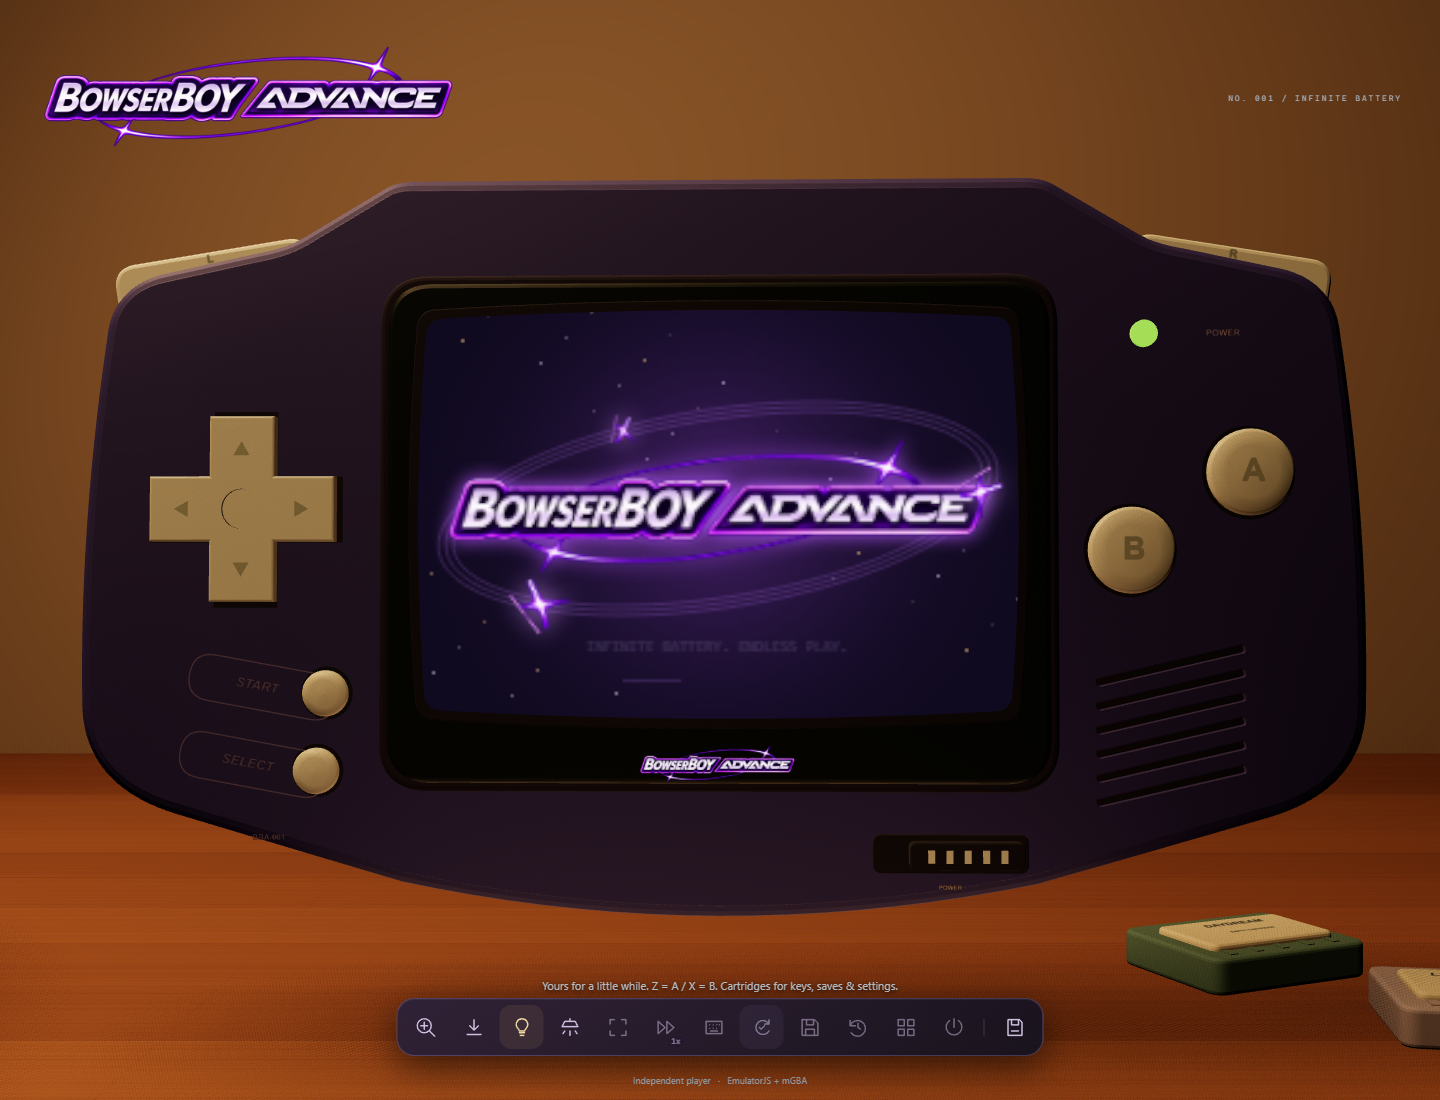
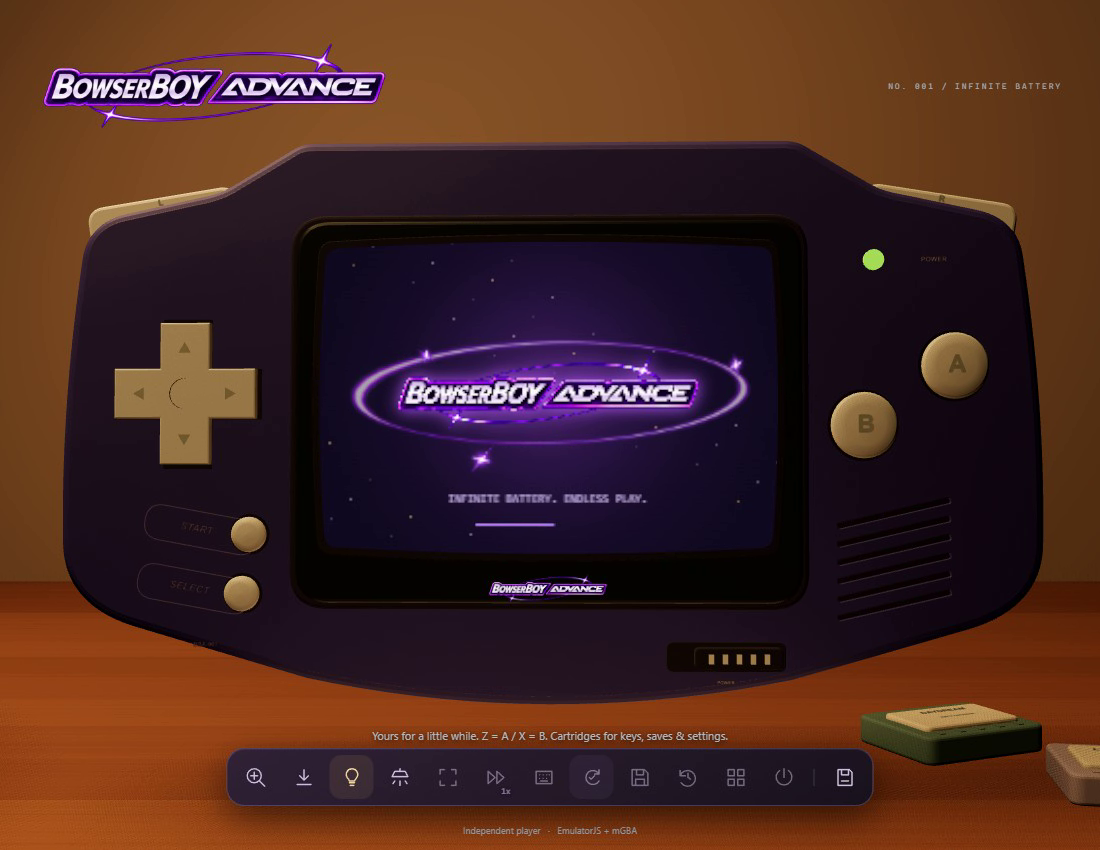
Document and capture the verified complete orbital startup
Record successful normal deployment and independent production checks, publish actual refreshed boot media, and reconcile sprite provenance, spacing and causal release history.

Copilot-Session: 8e7d69ac-78f7-4310-8b8d-14bf8681a509

diff --git a/docs/MEDIA.md b/docs/MEDIA.md
@@ -8,17 +8,17 @@ This is the user's explicit policy for this repository, not a portfolio-wide rul
 
 ## Sources and boundaries
 
-- `images/orbital-logo.gif` animates the supplied transparent purple logo and its
-  derived star sprite on a transparent background, without a purple rectangular
-  backdrop or background starfield. GIF supports binary transparency, so soft
+- `images/orbital-logo.gif` animates the supplied transparent purple logo and the
+  supplied sparkle, glow and orbit effects on a transparent background, without
+  a purple rectangular backdrop or background starfield. GIF supports binary transparency, so soft
   alpha edges are thresholded for encoding; the supplied source remains unchanged.
   Its elliptical star motion is an original README presentation, not a recording
   of the LCD boot. The separate power-on GIF retains the actual purple LCD scene.
 - The other GIFs are actual recordings of the deployed application, captured
   with Playwright/Edge at 1100 by 850 and encoded at 800 by 618, 10 fps.
   Pickup/inspection, power-on, physical insertion and lighting use actual UI
-  actions, not rendered mockups or artificial interpolation. The last half-second
-  of each trailing idle hold is trimmed; clip timings are not performance metrics.
+  actions, not rendered mockups or artificial interpolation. Trailing idle holds
+  are trimmed; clip timings are not performance metrics.
 - Insertion deliberately holds the native loader download until the cartridge
   seats, making the real download-phase motion visible. It is not a measurement
   of normal network loading time.
@@ -29,6 +29,41 @@ This is the user's explicit policy for this repository, not a portfolio-wide rul
   available in the [player guide](GUIDE.md).
 - Documentation images are not part of the static application's build allowlist.
 
+The power-on GIF and startup still were refreshed from deployed source
+`a0445eeda7836b24f2f1449427d2381bab7bad52`, after independently matching all
+28 public assets and checking the actual startup. Its final clip boundary was
+shortened after encoded review to exclude the following drawer action, without
+retiming motion. Other interaction GIFs retain their previously reviewed footage.
+
+## Complete effects, not logo fragments
+
+The earlier moving star was cropped from the logo, leaving neighboring orbit
+segments and hard-cut arms. Its replacement comes from the user's **Purple Neon
+Sparkle and Orbital Sprite Sheet**, supplied on 2026-11-04: 2172x724 RGBA,
[1 lines of base64/hex data omitted]
+
+| Output | Source rectangle, exclusive right/bottom | Transparent output |
+|---|---|---|
+| `assets/star.png` | `(690,100)-(875,302)` | 256x256 |
+| `assets/glow.png` | `(1640,138)-(1768,267)` | 160x160 |
+| `assets/orbit.png` | `(0,512)-(640,724)` | 660x240 |
+
+`scripts/extract-orbital-sprites.py` removes only near-invisible alpha<=1 noise,
+rejects crops touching visible content, preserves the remaining colors/alpha,
+and centers each complete effect with transparent padding. The supplied source
+and logo stay unchanged. Natural passing behind the wordmark is intentional
+occlusion, not a crop cutoff.
+
+The LCD orbit is inset far enough to contain every rotated sparkle throughout
+the reveal. Browser checks cover the full 3200ms animation at 100ms steps,
+transparent sprite margins and the unchanged static reduced-motion presentation.
+Every encoded README banner frame also clears an 8px outer canvas margin.
+The centered banner artwork is 620px wide inside a 960px outer orbit on the
+1000x340 canvas. The LCD uses 160px artwork inside a 226px ring. This leaves
+clear breathing room instead of stretching the wordmark against the orbit.
+Browser checks also retain centered placement and logo width below 75% of the
+ring throughout the startup reveal.
+
 ## Reproduce
 
 The existing Node dependencies provide Playwright. Install Edge, Python with
@@ -38,12 +73,13 @@ requirements for playing or building the website.
 From the repository root, provide your own scratch output directory:
 
 ```powershell
+python scripts\extract-orbital-sprites.py "C:\art\Purple Neon Sparkle and Orbital Sprite Sheet.png"
 node scripts\capture-readme.mjs C:\scratch\bba-readme
 python scripts\render-readme.py --capture C:\scratch\bba-readme\capture.json --ffmpeg C:\tools\ffmpeg.exe
 ```
 
-Use the actual FFmpeg executable path on your machine. Set `BBA_CAPTURE_URL` to
-record a different running build, or `BROWSER_CHANNEL` to select an installed
+Use the actual supplied sheet and FFmpeg executable paths on your machine.
+Set `BBA_CAPTURE_URL` to record a different running build, or `BROWSER_CHANNEL` to select an installed
 Playwright browser channel. The default capture URL is the public website.
 The capture writes an original WebM and a receipt of clip timings; the encoder
 writes the five GIFs to `docs\images`. Running only

diff --git a/docs/ARCHITECTURE.md b/docs/ARCHITECTURE.md
@@ -404,12 +404,13 @@ Only the power handler changes this intent after its checked device write.
 On first use the missing console record means off; inserting a cartridge leaves
 it off. Hydration serializes tools until the remembered console is restored.
 
-`src/brand.js` decodes the supplied transparent logo and derived star crop before
-constructing the scene. The same artwork is used on the bezel/battery cover,
+`src/brand.js` decodes the supplied transparent logo and complete padded
+sparkle/glow/orbit sprites before constructing the scene. The same artwork is used on the bezel/battery cover,
 idle/loading status LCD, header and dialogs. Decode failures are explicit.
 `src/startup.js` draws the wordmark over a purple starfield, with three supplied
-star sprites crossing behind/in front of it along elliptical orbits, into the
-same 240x160 LCD texture/light path for 3.2 seconds. Reduced motion uses a static
+star sprites crossing behind/in front of it along elliptical orbits, with the
+supplied ring and pulsing glow, into the same 240x160 LCD texture/light path for
+3.2 seconds. Reduced motion uses a static
 500 ms presentation. An original three-note sine-wave chime follows mute/volume;
 audio permission failures are reported without blocking gameplay indefinitely.
 No Nintendo recording, boot ROM or video is loaded. Animation/chime are original;
@@ -418,6 +419,11 @@ SVG favicon uses the original 3D shell's exact outline with simplified LCD,
 D-pad, diagonal A/B buttons and speaker slots. Its transparent square canvas
 retains the landscape silhouette at16/32/64px; the supplied star remains an
 animation sprite, not the browser-tab icon.
+The effects come from isolated regions of the supplied sprite sheet, not logo
+fragments. Transparent margins and a 98px horizontal orbit radius keep rotated
+stars inside the LCD for the full reveal; tests sample all corners every100ms.
+The centered wordmark is 160px wide inside the 226px supplied ring, leaving
+substantial clearance without enlarging the framebuffer or clipping the orbit.
 
 Only a genuine off-to-on switch action calls that presentation, then cold-boots
 the cartridge with battery save data. Refresh while already on restores the
@@ -488,7 +494,7 @@ from a trusted copy of this application.
 | Path | Responsibility |
 |---|---|
 | `index.html`, `styles.css`, `assets/cartridge.svg` | Scene host, projected controls and hidden tools drawer |
-| `assets/logo.png`, `assets/star.png`, `src/brand.js` | Shared supplied branding, derived animation star and checked decoding |
+| `assets/logo.png`, `assets/star.png`, `assets/orbit.png`, `assets/glow.png`, `src/brand.js` | Supplied branding/effects, padded sprites and checked decoding |
 | `assets/brand-mark.svg` | Original transparent handheld favicon, matching the actual shell outline |
 | `src/icons.js` | Quick-dock SVGs, names, tooltip labels and speed badge |
 | `src/handheld.js`, `src/scene.js` | Original 3D geometry/textures, live LCD, picking and inspection |

diff --git a/THIRD_PARTY_NOTICES.md b/THIRD_PARTY_NOTICES.md
@@ -70,10 +70,17 @@ The opaque-background reference and future color-variant sheet are not included
 in the static release. No alternate colors are enabled. Supplied-artwork
 provenance and the absence of an independent authorship/license claim remain.
 The same supplied PNG is now used on the shell, idle/loading LCD, orbital
-startup and settings panels. `assets/star.png` is a transparent crop/resample
-from pixel rectangle(1650,90)-(1835,280) of that supplied image, used for
-revolving sprites. It is not independently authored
-star artwork. The updated orbit motion and starfield are original code.
+startup and settings panels. The earlier `assets/star.png` was a crop from
+pixel rectangle(1650,90)-(1835,280) of that supplied logo; it included unwanted
+orbit fragments and hard cutoffs, and has been superseded.
+
+The current `assets/star.png`, `assets/glow.png` and `assets/orbit.png` derive
+from the user's separately supplied **Purple Neon Sparkle and Orbital Sprite
+Sheet**, a 2172x724 transparent RGBA PNG. Complete isolated effects are trimmed
+only of alpha<=1 noise and centered on transparent padded canvases. No
+independent authorship or separate upstream license is claimed for this supplied
+artwork. Exact source identity, crop rectangles and reproduction appear in
+[media provenance](docs/MEDIA.md). The orbit motion and starfield are original code.
 
 The active `assets/brand-mark.svg` favicon is original vector artwork using
 the procedural 3D handheld's shell outline and simplified physical controls.
@@ -81,8 +88,9 @@ It replaces the earlier generic rounded/infinity artwork and supplied-star
 tab icon, without importing a manufacturer's logo or reference image.
 
 The README's transparent animated orbital banner derives from that same supplied
-logo and star crop, with original animation code. Its interaction GIFs record this
-application and the original Pixel Lab demo, not commercial game footage.
+logo and the separately supplied effect sprites, with original animation code.
+Its interaction GIFs record this application and the original Pixel Lab demo,
+not commercial game footage.
 See [media provenance and reproduction](docs/MEDIA.md).
 
 Playwright is a development/test dependency, not part of the deployed app.
